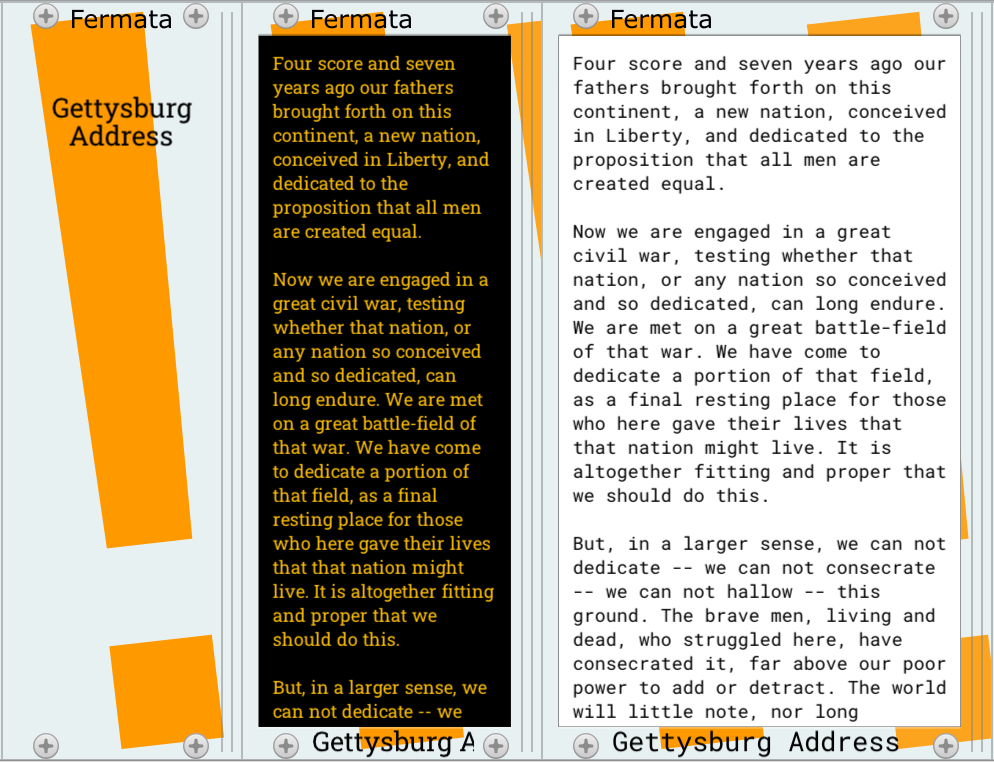
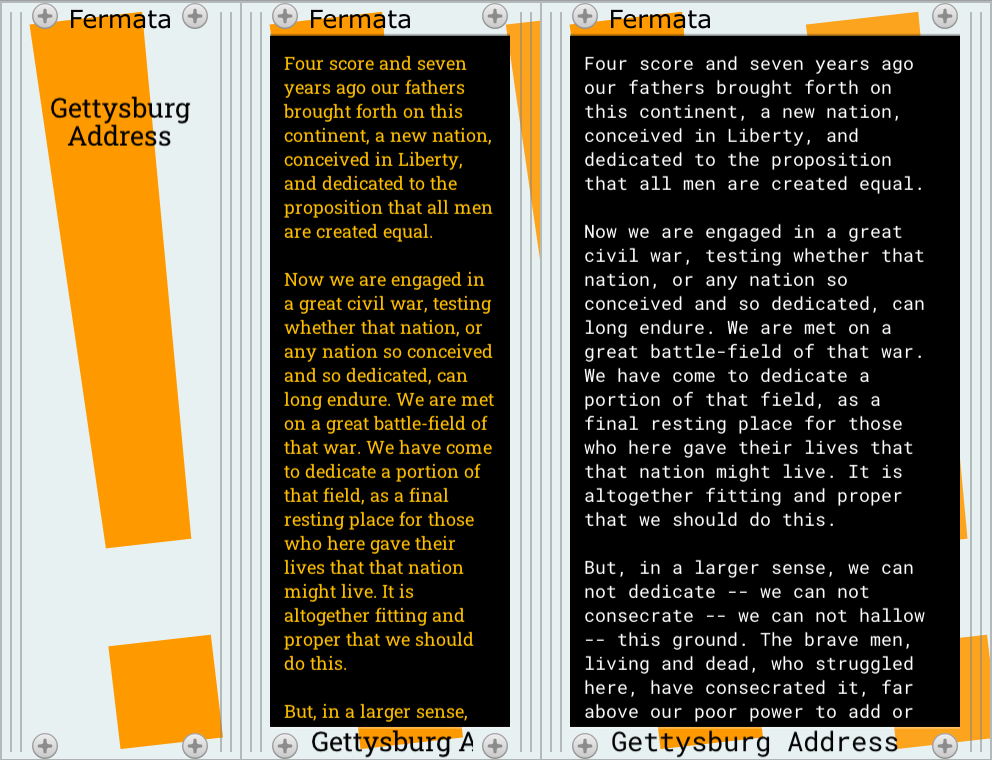
Update docs for improved Fermata

diff --git a/README.md b/README.md
@@ -890,11 +890,11 @@ If this module is bypassed, then OUT will equal IN.
 ![Line Break image](images/Separator.png)
 
 # Fermata
-Write longer notes! And wider or narrower notes.
+Write longer notes! And wider or narrower text notes.
 
 Here is Fermata:
 * as a label
-* expanded a bit turning it into text
+* expanded a bit, turning it into a text editor
 * further expanded, and with different font and screen color choices.
 
 ![Fermata Variety](images/Fermata-variety.png)
@@ -904,11 +904,14 @@ Here is Fermata:
 * Notes/reminders on how this part of the patch works.
 * TODO's or ideas.
 * A short story you're writing while listening to your patch.
+* As a label, the title names a chunk of the patch, allowing the person seeing
+it to pull it open and, say, read more detail on how it works. An example of this can be found in [this patch](examples/AnnotatedSunlightOnSeaAnemones.vcv).
 
 ### Features
 * Up and down arrow keys work mostly like you expect.
 * Text scrolls as you move up and down.
-* Resize the module by dragging the right edge. Size can range from 8-64 HP.
+* Resize the module by dragging the left or right edges. Size can range
+from 8-64 HP.
 * Pick from a (small) variety of fonts.
 * Pick from a (small) variety of foreground/background colors.
 * Set the title in the module menu.
@@ -930,7 +933,6 @@ Pick from a small number of fonts. The "Mono" fonts are monospaced fonts.
 impossible to reach. For now, the workaround is to resize the module so no lines are wrapped around, and then it should scroll better.
 * Up and down keys move between what are effectively paragraphs. It should
 really move between visual lines, not physical lines.
-* Wouldn't it be better if you could resize from the left side as well? Yes, it would be.
 
 ### Bypass Behavior
 If this module is bypassed, then it will be darker. But otherwise, no different.
